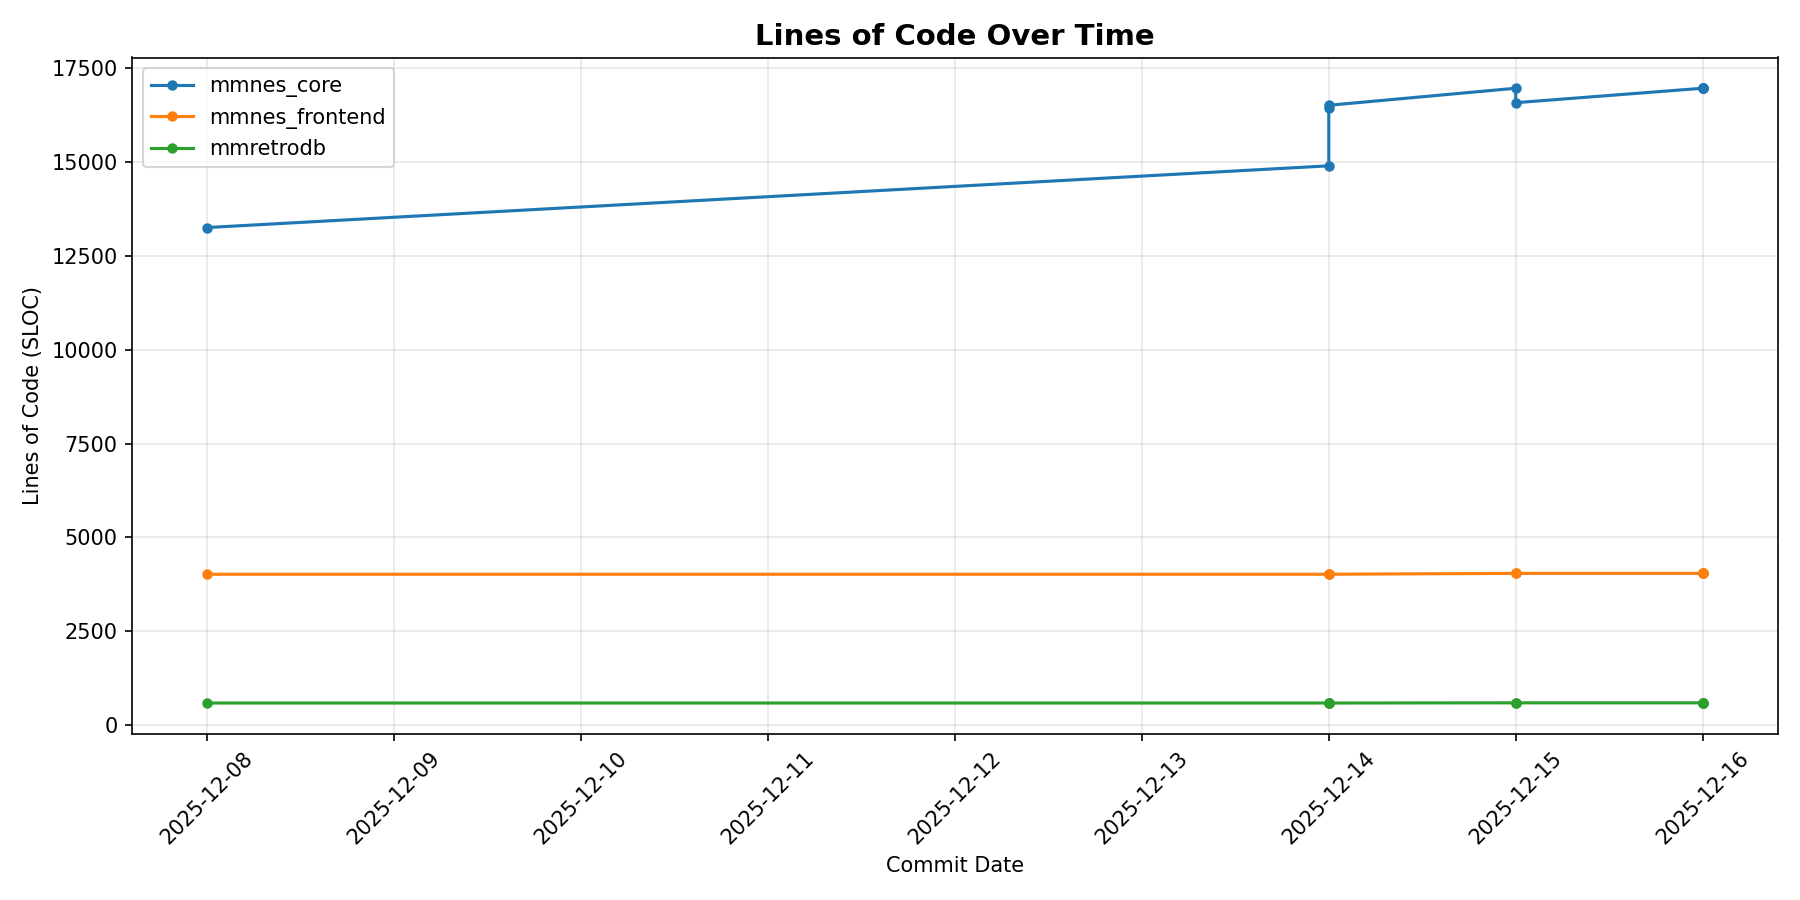
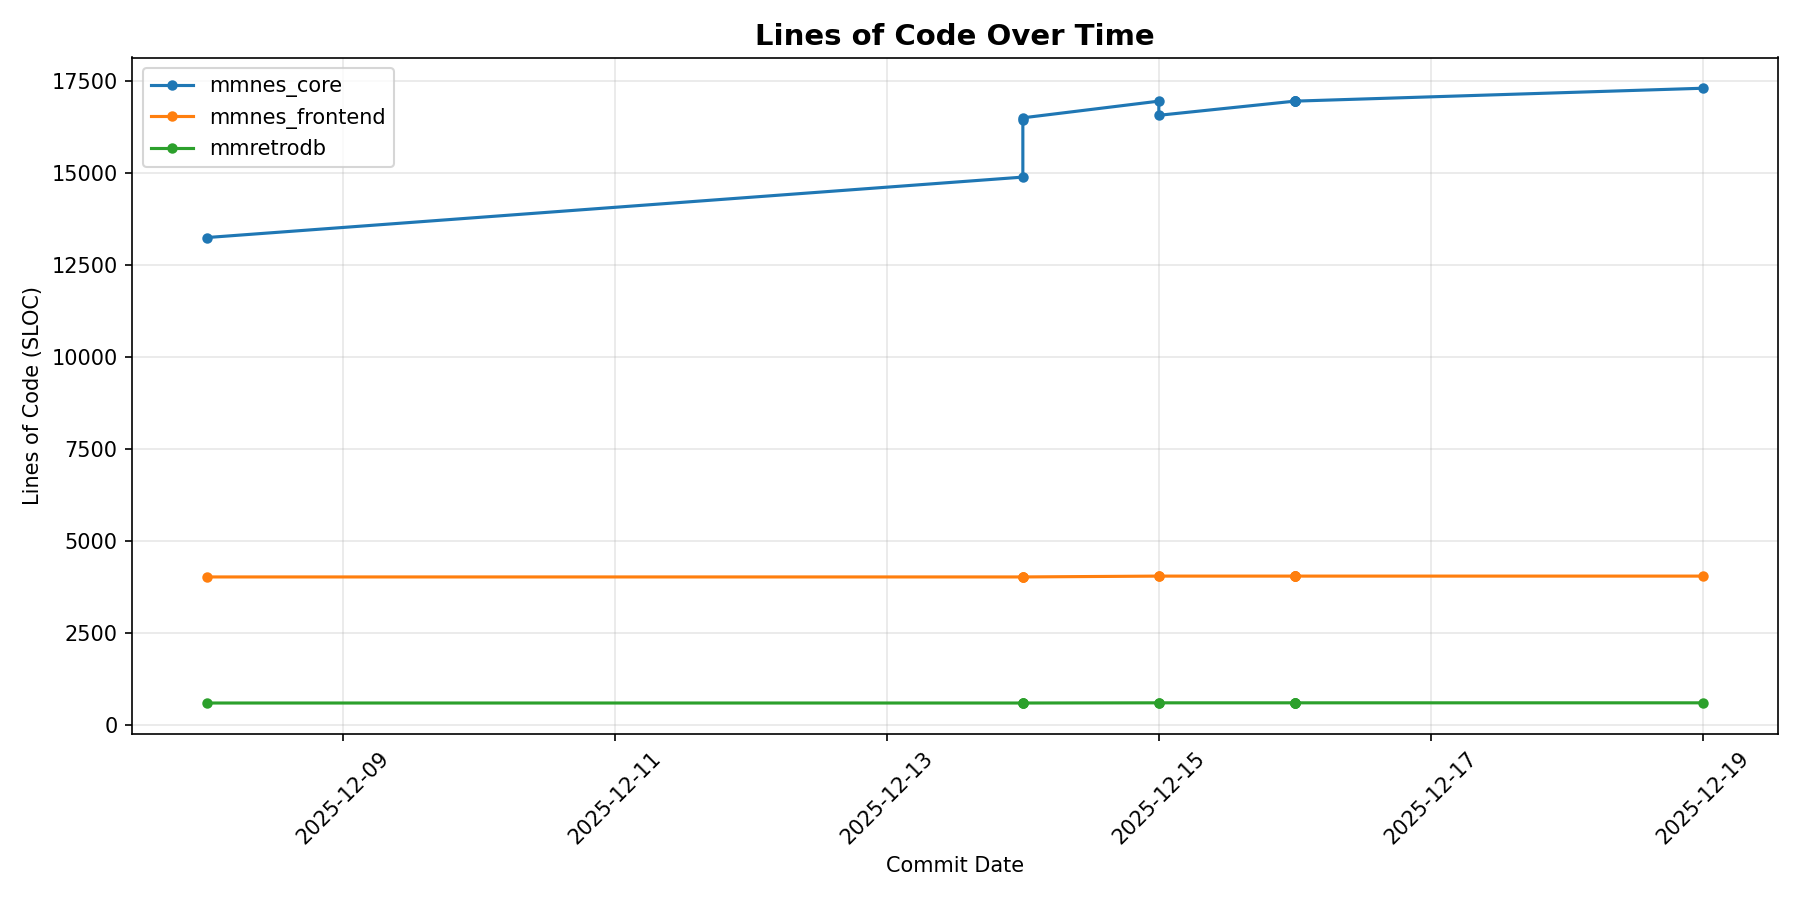
Update metrics data [skip ci]

diff --git a/metrics/data/METRICS_SUMMARY.md b/metrics/data/METRICS_SUMMARY.md
@@ -1,15 +1,15 @@
 # Code Quality Metrics Summary
 
-*Generated: 2025-12-16 11:46:03*
+*Generated: 2025-12-19 20:44:20*
 
-**Latest commit:** `c284546` on `HEAD`
+**Latest commit:** `96493ed` on `main`
 
 ## Per-Crate Metrics
 
 | Crate | LOC | Functions | Avg Cyclo | Coverage | Human % | Claude % |
 |-------|-----|-----------|-----------|----------|---------|----------|
-| mmnes_core | 16962 | 1142 | 2.5 | 41.5% | 86.6% | 13.4% |
 | mmnes_frontend | 4043 | 293 | 3.6 | 0.0% | 100.0% | 0.0% |
+| mmnes_core | 17313 | 1173 | 2.4 | 42.0% | 83.8% | 16.2% |
 | mmretrodb | 596 | 58 | 2.8 | 77.0% | 100.0% | 0.0% |
 
 ## Definitions
